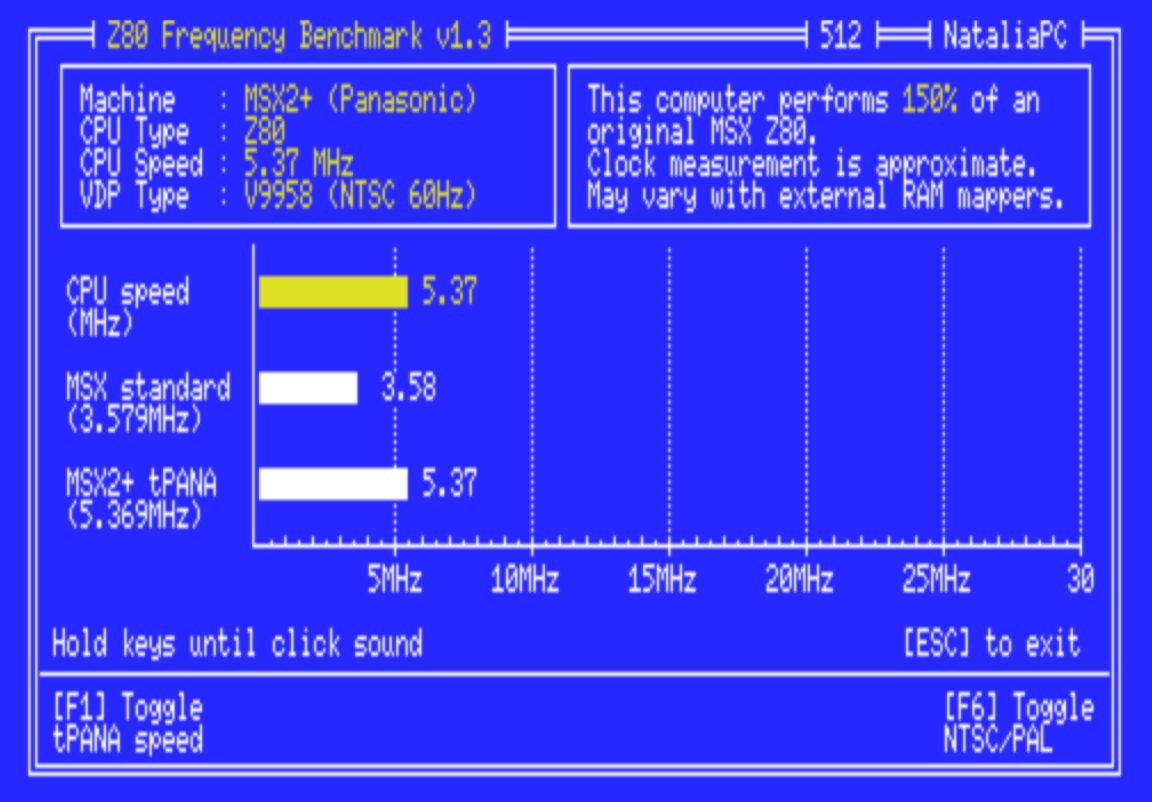
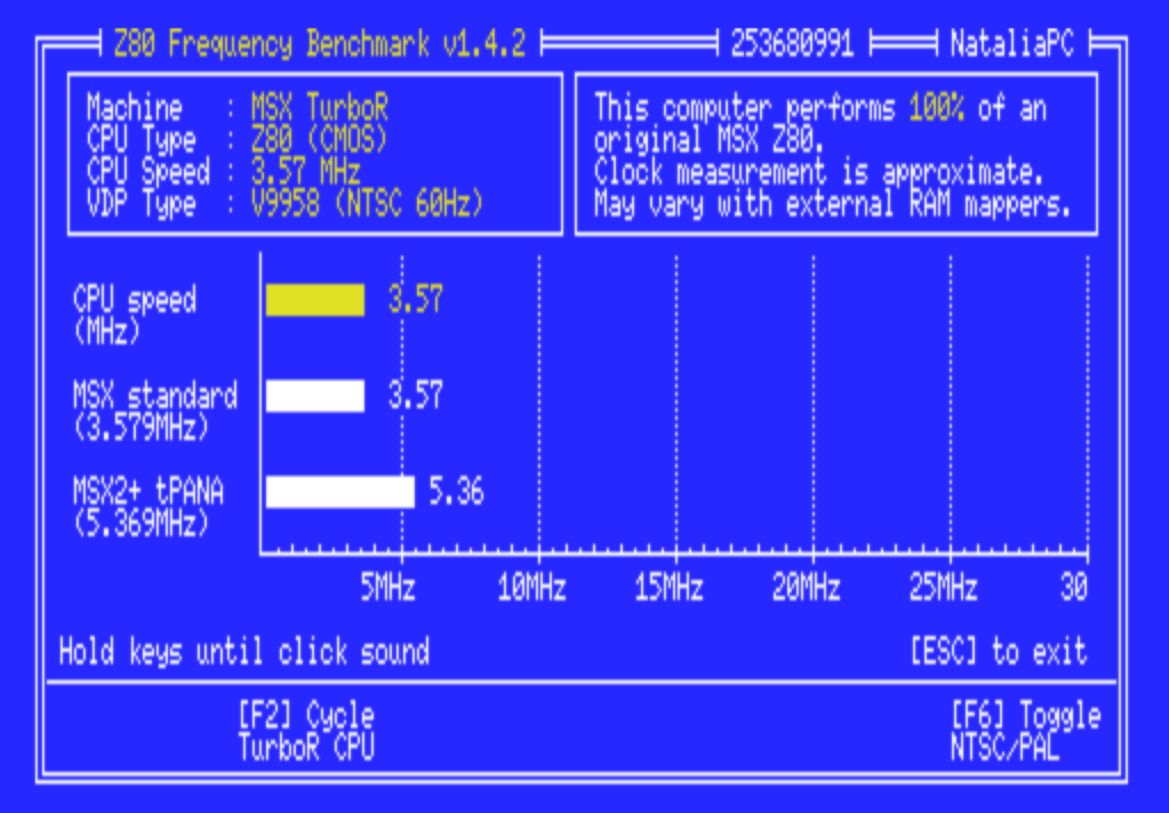
Updated README.md

Changed region(s): [[0.0, 0.0, 1.0, 0.9975]]

diff --git a/README.md b/README.md
@@ -6,9 +6,9 @@
 
 It has been created with not only _Panasonic MSX_ with _TurboPana_ and _MSX TurboR_ machines in mind, but also _FPGA_ machines [_OCM/MSX++_](https://github.com/gnogni/ocm-pld-dev), and MSX based on boards and hardware developments like [_Tides-Rider_](https://genami.shop/blogs/news/requirements-to-assemble-a-tides-rider) and [_Taka-Nami_](https://genami.shop/blogs/news/knowing-the-taka-nami) that allow different CPU speeds.
 
-The measurement is approximate and is based on the number of _VDP_ interrupts that occur during a test loop in `IM2` mode.
+The measurement is approximate and is based on the number of _VDP_ interrupts that occur during a test loop in `IM1` mode.
 
-This means that for low clock frequencies the precision is higher and as the speed increases the margin of error also increases.
+This means that for low clock frequencies the precision is higher and as the speed increases the margin of error also increases. But in the range of 3 to 20 MHz this error is practically negligible.
 
 With longer test loops and longer duration, the margin of error would be reduced, but a compromise between precision and usability has been chosen.
 
@@ -21,7 +21,7 @@ The visual presentation and operation is based on similar programs that were dev
 ## Displayed Information
 
 - **Machine:** MSX generation obtained from _BIOS ROM_ and manufacturer if available obtained from [_expanded I/O ports_](https://map.grauw.nl/resources/msx_io_ports.php#expanded_io).
-- **CPU Type:** detection is performed by checking how specific opcodes behave for each CPU. `Z80`, `R800`, and `Z280` are detected.
+- **CPU Type:** detection is performed by checking how specific opcodes behave for each CPU. `Z80`, `R800`, and `Z280` (experimental) are detected. For Z80 it also detects if it's NMOS or CMOS.
 - **CPU Speed:** speed calculated by the test loop.
 - **VDP Type:** video chip detection (_TMS9918, V9938, V9958_). Output frequency is also shown (_NTSC/PAL_).
 
@@ -29,18 +29,19 @@ The visual presentation and operation is based on similar programs that were dev
 
 The options are only shown if they are detected as possible.
 
-The keys must be held down until you hear a click sound, which is when each of the tests ends.
+The keys must be held down until you hear a click sound, which is when each of the tests ends and keyboard can be read again.
 
-- **F1:** Toggle _TurboPana_ CPU speed (_3.58MHz, and 5.37MHz_)
-- **F2:** Cycle _TurboR_ CPU (_Z80, R800(ROM), and R800(DRAM)_)
-- **F3:** Cycle _OCM_ Speed (_3.58MHz, 5.37MHz, 4.10MHz, 4.48MHz, 4.90MHz, 5.39MHz, 6.10MHz, 9.96MHz, and 8.06MHz_)
-- **F6:** Toggle _NTSC/PAL_. CPU Speed may vary when changing this value due to the different duration of their interrupts (_60/50Hz_ respectively).
+- **F1:** Toggle _TurboPana_ CPU speed (_3.57MHz, and 5.36MHz_).
+- **F2:** Cycle _TurboR_ CPU (_Z80, R800(ROM), and R800(DRAM)_).
+- **F3:** Cycle _OCM_ Speed (_3.57MHz, 5.36MHz, 4.10MHz, 4.48MHz, 4.90MHz, 5.39MHz, 6.10MHz, 9.96MHz, and 8.06MHz_).
+- **F4:** Cycle _Tides-Rider_ Speed (3.57MHz, 6.66MHz, 10MHz, and 20MHz).
+- **F6:** Toggle _NTSC/PAL_. CPU Speed may vary slightly when changing this value due to the different interrupts frequency (_60/50Hz_ respectively).
 
 ## Final Considerations
 
 Clock measurement is approximate, and may vary when using external RAM mappers.
 
-The number that appears in the upper right corner indicates the number of interrupts that occurred during each iteration of the test loop.
+The number that appears in the border indicates the number of interrupts (*10e6) that occurred during each iteration of the test loop.
 
 ## Acknowledgments
 
